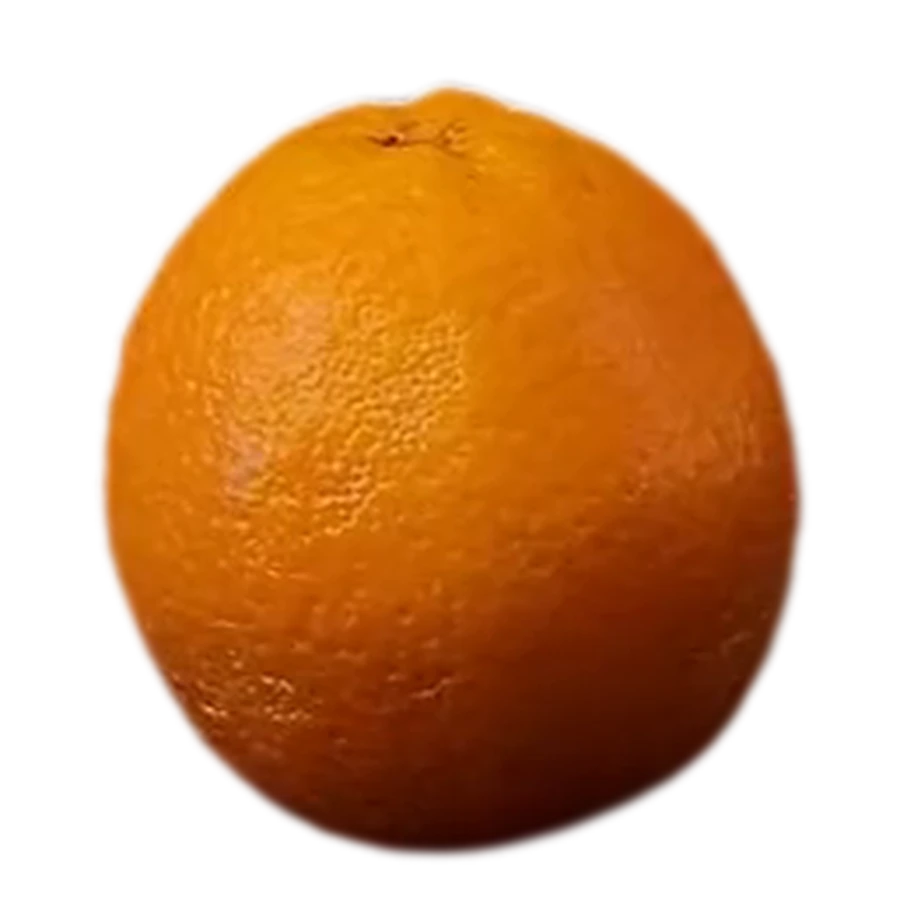
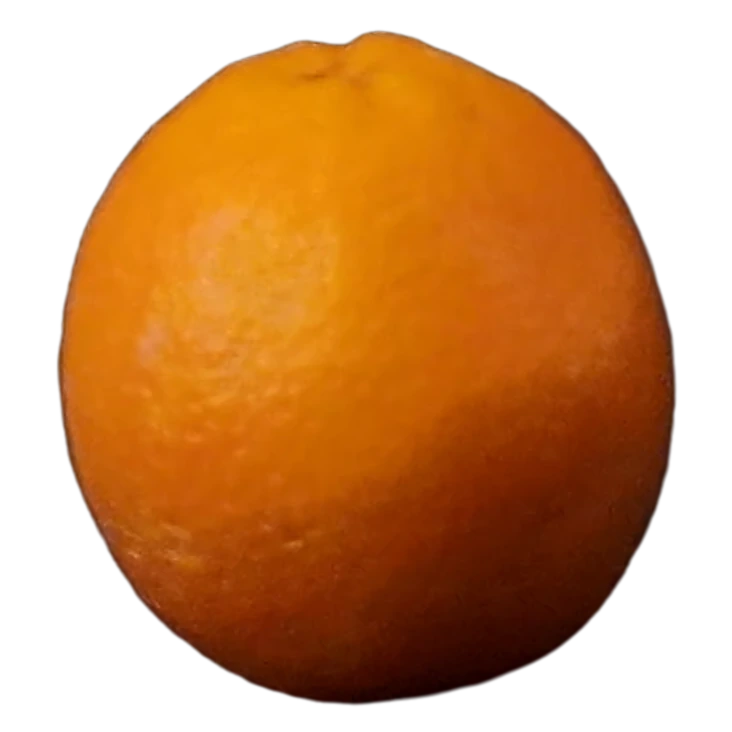
Sharper object images: cut out from Lynn's 4K studio footage and photos
Orange, Ice, Cream Foam, Rose and Cabbage Leaf get new cut-outs from the 4K
originals (two-pass mask on a tight crop). Pear, Aluminium Foil and Cleaning
Sponge get their first images. Tomato keeps the Workshop B cut-out.
tools/extract-hd.py rebuilds them from the source files.

Claude-Session: https://claude.ai/code/session_01BaGG1a1ec3XLix1jGfkRog

diff --git a/js/data/materials.js b/js/data/materials.js
@@ -8,7 +8,8 @@
 // A field that was never recorded is null and the page says so.
 //
 // IMAGES: every object has a folder assets/objects/<slug>/
-//   cutout.webp      gallery and hero image. Temporary: cut out of a Workshop B video frame.
+//   cutout.webp      gallery and hero image, cut out of Lynn's 4K studio videos and photographs
+//                    (tools/extract-hd.py). Tomato is still a temporary Workshop B cut-out.
 //                    To use a final photograph, save it over this file (square, transparent
 //                    background, about 1200 px) or point heroImage/galleryImage to the new file,
 //                    and set imageTemporary to false.
@@ -26,7 +27,7 @@ const ACTION_APPLIED = "Pinch, press and squeeze by hand, on camera (Workshop B)
 export const MATERIALS = {
   orange: {
     name: "Orange", category: "Organic", primaryAction: "Compression",
-    heroImage: O("orange") + "cutout.webp", galleryImage: O("orange") + "cutout.webp", imageTemporary: true,
+    heroImage: O("orange") + "cutout.webp", galleryImage: O("orange") + "cutout.webp", imageTemporary: false,
     physicalProfile: {
       colour: "Orange",
       shape: "Approximately spherical with a slightly rough, dimpled peel.",
@@ -49,7 +50,7 @@ export const MATERIALS = {
   },
   ice: {
     name: "Ice", category: "Frozen water", primaryAction: "Compression",
-    heroImage: O("ice") + "cutout.webp", galleryImage: O("ice") + "cutout.webp", imageTemporary: true,
+    heroImage: O("ice") + "cutout.webp", galleryImage: O("ice") + "cutout.webp", imageTemporary: false,
     physicalProfile: {
       colour: "Clear to cloudy white.",
       shape: "Irregular block with a smooth, wet surface.",
@@ -85,7 +86,7 @@ export const MATERIALS = {
   },
   "cream-foam": {
     name: "Cream Foam", category: "Food foam", primaryAction: "Compression",
-    heroImage: O("cream-foam") + "cutout.webp", galleryImage: O("cream-foam") + "cutout.webp", imageTemporary: true,
+    heroImage: O("cream-foam") + "cutout.webp", galleryImage: O("cream-foam") + "cutout.webp", imageTemporary: false,
     physicalProfile: {
       colour: "Off white",
       shape: "Soft piped mound of folds and peaks.",
@@ -103,7 +104,7 @@ export const MATERIALS = {
   },
   rose: {
     name: "Rose", category: "Organic", primaryAction: "Compression",
-    heroImage: O("rose") + "cutout.webp", galleryImage: O("rose") + "cutout.webp", imageTemporary: true,
+    heroImage: O("rose") + "cutout.webp", galleryImage: O("rose") + "cutout.webp", imageTemporary: false,
     physicalProfile: { colour: "Deep pink", shape: "Layered petals on a long stem.", lifespan: "Perishable; wilts within days of cutting.", pressure: null },
     states: states("rose", [0.3, 6, 28, 52]),
     experimentVideo: { src: V + "012-workshop-b-06.mp4", poster: V + "012-workshop-b-06.jpg", caption: "Workshop B 06 · Rose · pinch, press, squeeze", description: "A hand pinches the rose head, presses it with the palm, then lifts it by the stem and squeezes the petals. 63 seconds, no sound." },
@@ -112,7 +113,7 @@ export const MATERIALS = {
   },
   "cabbage-leaf": {
     name: "Cabbage Leaf", category: "Organic", primaryAction: "Compression",
-    heroImage: O("cabbage-leaf") + "cutout.webp", galleryImage: O("cabbage-leaf") + "cutout.webp", imageTemporary: true,
+    heroImage: O("cabbage-leaf") + "cutout.webp", galleryImage: O("cabbage-leaf") + "cutout.webp", imageTemporary: false,
     physicalProfile: { colour: "Green leaf, pale stalk", shape: "Broad smooth leaf on a thick, crisp stalk.", lifespan: "Perishable; wilts as it dries.", pressure: null },
     states: states("cabbage-leaf", [0.3, 6, 22, 45]),
     experimentVideo: { src: V + "013-workshop-b-03-leaf.mp4", poster: V + "013-workshop-b-03-leaf.jpg", caption: "Workshop B 03 (改) · Vegetable leaf · pinch, press, squeeze", description: "A hand pinches a leaf, presses it flat with the palm, then picks it up and crushes it in the hand. 55 seconds, no sound." },
@@ -121,21 +122,21 @@ export const MATERIALS = {
   },
   "aluminium-foil": {
     name: "Aluminium Foil", category: "Metal", primaryAction: "Compression", outline: "sheet",
-    heroImage: null, galleryImage: null,
+    heroImage: O("aluminium-foil") + "cutout.webp", galleryImage: O("aluminium-foil") + "cutout.webp", imageTemporary: false,
     physicalProfile: { colour: "Silver", shape: "Thin, smooth sheet, one side brighter than the other.", lifespan: "Long lasting.", pressure: "Creases and deforms under pressure, keeping its altered shape after release." },
     states: [], experimentVideo: null, bodyPerformanceVideo: null,
     observation: { action: "Open palm press (bodystorming phase 1, Sept 2026).", response: "Folds at the lightest touch and keeps every crease. Smoothing it out leaves a map of where it was pressed.", interpretation: "Identity card I02, The One Who Remembers: holds on to experiences and carries traces of past interactions." }
   },
   "cleaning-sponge": {
     name: "Cleaning Sponge", category: "Synthetic foam", primaryAction: "Compression", outline: "block",
-    heroImage: null, galleryImage: null,
+    heroImage: O("cleaning-sponge") + "cutout.webp", galleryImage: O("cleaning-sponge") + "cutout.webp", imageTemporary: false,
     physicalProfile: { colour: null, shape: "Rectangular block with an open, porous surface.", lifespan: "Long lasting; wears with use.", pressure: "Compresses under pressure and returns towards its original shape after release." },
     states: [], experimentVideo: null, bodyPerformanceVideo: null,
     observation: { action: "Open palm press (bodystorming phase 1, Sept 2026).", response: "Gives way the moment a palm presses down, pushes air out of its pores, then rises back to almost its first shape within a second or two of release.", interpretation: "Identity card I05, The Adapter: flexible and resilient, able to adjust and recover after pressure." }
   },
   pear: {
     name: "Pear", category: "Organic", primaryAction: "Compression", outline: "pear",
-    heroImage: null, galleryImage: null,
+    heroImage: O("pear") + "cutout.webp", galleryImage: O("pear") + "cutout.webp", imageTemporary: false,
     physicalProfile: { colour: null, shape: "Rounded base narrowing to the stem, thin skin.", lifespan: "Perishable · storage dependent.", pressure: "Looks unchanged right after a press; over the next hours the pressed area softens and browns." },
     states: [], experimentVideo: null, bodyPerformanceVideo: null,
     observation: { action: "Open palm press (studio experiment, 1 Oct 2026).", response: "Looks unchanged right after a press. Over the next hours the pressed area softens and turns brown.", interpretation: null }

diff --git a/js/pages/material.js b/js/pages/material.js
@@ -1,12 +1,12 @@
 // 03 Material Detail: large object + frosted information panel (Reference B), then the research record.
-import { esc, $, $$ } from "../lib/util.js?v=202611041523";
-import { href, neighbours, workshopTranslations } from "../lib/library.js?v=202611041523";
-import { publishedFor } from "../lib/contributions.js?v=202611041523";
-import { archiveStatus } from "../components/status.js?v=202611041523";
-import { objectFigure } from "../components/figure.js?v=202611041523";
-import { stateViewer, mountStateViewer } from "../components/stateViewer.js?v=202611041523";
-import { videoPlayer, mountVideo } from "../components/videoPlayer.js?v=202611041523";
-import { translationRecord } from "../components/translationRecord.js?v=202611041523";
+import { esc, $, $$ } from "../lib/util.js?v=202611042152";
+import { href, neighbours, workshopTranslations } from "../lib/library.js?v=202611042152";
+import { publishedFor } from "../lib/contributions.js?v=202611042152";
+import { archiveStatus } from "../components/status.js?v=202611042152";
+import { objectFigure } from "../components/figure.js?v=202611042152";
+import { stateViewer, mountStateViewer } from "../components/stateViewer.js?v=202611042152";
+import { videoPlayer, mountVideo } from "../components/videoPlayer.js?v=202611042152";
+import { translationRecord } from "../components/translationRecord.js?v=202611042152";
 
 const row = (k, v) => `<div class="kv"><dt>${k}</dt><dd>${v ?? '<span class="muted">Not recorded</span>'}</dd></div>`;
 const the = o => `the ${o.name}`;
@@ -17,7 +17,7 @@ export function render(main, o) {
   const p = o.physicalProfile || {}, obs = o.observation || {};
   const { prev, next } = neighbours(o.slug);
   const images = [
-    o.heroImage && { src: o.heroImage, alt: `${o.name}, object ${o.no}`, cap: o.imageTemporary ? "Temporary cut-out from a Workshop B video frame" : "Object photograph", cut: true },
+    o.heroImage && { src: o.heroImage, alt: `${o.name}, object ${o.no}`, cap: o.imageTemporary ? "Temporary cut-out from a Workshop B video frame" : "Studio photograph, cut out from 4K footage", cut: true },
     o.experimentVideo && o.experimentVideo.poster && { src: o.experimentVideo.poster, alt: `${o.name} on the experiment table`, cap: "Experiment set-up, Workshop B" }
   ].filter(Boolean);
   const tr = workshopTranslations(o.slug);

diff --git a/js/app.js b/js/app.js
@@ -1,16 +1,16 @@
 // I.A.M. The Living Material Library. Hash router and site navigation.
 // HOME > MATERIAL LIBRARY > MATERIAL DETAIL > BECOME A MATERIAL > MY COLLECTION > CONTRIBUTE TO THE LAB
-import { $, $$, reduceMotion } from "./lib/util.js?v=202611041523";
-import { bySlug, byKey, isOpen, href } from "./lib/library.js?v=202611041523";
-import * as col from "./lib/collection.js?v=202611041523";
-import * as Home from "./pages/home.js?v=202611041523";
-import * as Library from "./pages/library.js?v=202611041523";
-import * as Material from "./pages/material.js?v=202611041523";
-import * as Become from "./pages/become.js?v=202611041523";
-import * as Collection from "./pages/collection.js?v=202611041523";
-import * as Record from "./pages/record.js?v=202611041523";
-import * as Contribute from "./pages/contribute.js?v=202611041523";
-import * as About from "./pages/about.js?v=202611041523";
+import { $, $$, reduceMotion } from "./lib/util.js?v=202611042152";
+import { bySlug, byKey, isOpen, href } from "./lib/library.js?v=202611042152";
+import * as col from "./lib/collection.js?v=202611042152";
+import * as Home from "./pages/home.js?v=202611042152";
+import * as Library from "./pages/library.js?v=202611042152";
+import * as Material from "./pages/material.js?v=202611042152";
+import * as Become from "./pages/become.js?v=202611042152";
+import * as Collection from "./pages/collection.js?v=202611042152";
+import * as Record from "./pages/record.js?v=202611042152";
+import * as Contribute from "./pages/contribute.js?v=202611042152";
+import * as About from "./pages/about.js?v=202611042152";
 
 const main = $("#main");
 let cleanup = null;

diff --git a/js/data/catalogue.js b/js/data/catalogue.js
@@ -17,14 +17,14 @@ export const NUMBERING_CONFIRMED = ["001"];
 
 export const CATALOGUE = [
   { key: "004", slug: "orange",         no: "001", status: "published" },
-  { key: "003", slug: "aluminium-foil", no: "002", status: "under-observation", note: "Not yet filmed" },
-  { key: "001", slug: "cleaning-sponge",no: "003", status: "under-observation", note: "Not yet filmed" },
+  { key: "003", slug: "aluminium-foil", no: "002", status: "under-observation", note: "Photographed · record being written" },
+  { key: "001", slug: "cleaning-sponge",no: "003", status: "under-observation", note: "Photographed · record being written" },
   { key: "002", slug: "ice",            no: "004", status: "published" },
   { key: "006", slug: "tomato",         no: "005", status: "published" },
   { key: "009", slug: "cream-foam",     no: "006", status: "published" },
   { key: "012", slug: "rose",           no: "007", status: "under-observation", note: "Filmed · record being written" },
   { key: "013", slug: "cabbage-leaf",   no: "008", status: "under-observation", note: "Filmed · record being written" },
-  { key: "007", slug: "pear",           no: "009", status: "under-observation", note: "Not yet filmed" },
+  { key: "007", slug: "pear",           no: "009", status: "under-observation", note: "Filmed · record being written" },
   { key: "008", slug: "shaving-foam",   no: "010", status: "under-observation", note: "Not yet filmed" },
   { key: "014", slug: "madeleine",      no: "011", status: "under-observation", note: "Not yet filmed" }
 ];

diff --git a/js/pages/about.js b/js/pages/about.js
@@ -1,5 +1,5 @@
 // About: the method, what the translations are (and are not), and where data lives.
-import { href } from "../lib/library.js?v=202611041523";
+import { href } from "../lib/library.js?v=202611042152";
 
 export function render(main) {
   main.innerHTML = `
@@ -14,7 +14,7 @@ export function render(main) {
     <h2>Your translations and privacy</h2>
     <p>What you write in Become a Material is saved only in your own browser, in My Collection. Nothing is sent anywhere unless you choose Contribute to the Lab and tick the consent box. Contributions are reviewed before they appear, can be anonymous, and can be withdrawn from My Collection at any time.</p>
     <h2>Images</h2>
-    <p>Object images are temporary cut-outs from the research videos, to be replaced with final photographs. Physical states are real frames from the same videos.</p>
+    <p>Object images are cut out from 4K studio footage and photographs of the actual objects (Tomato is still a temporary cut-out). Physical states are real frames from the Workshop B videos.</p>
     <p class="mono small muted">A graduation project by Lynn Zhong · MA User Experience Design · London College of Communication, UAL · 2026</p>
     <p><a class="cta" href="${href.library}">Explore the Library <span aria-hidden="true">→</span></a></p>
   </article>`;

diff --git a/js/pages/become.js b/js/pages/become.js
@@ -1,10 +1,10 @@
 // 04 Become a Material: watch, then write as the material. One text box, one button.
 // After saving, sharing with the Library is one optional step on the same screen.
-import { esc, $, announce } from "../lib/util.js?v=202611041523";
-import { href } from "../lib/library.js?v=202611041523";
-import * as col from "../lib/collection.js?v=202611041523";
-import { videoPlayer } from "../components/videoPlayer.js?v=202611041523";
-import { contributionForm, mountContributionForm } from "../components/contributionForm.js?v=202611041523";
+import { esc, $, announce } from "../lib/util.js?v=202611042152";
+import { href } from "../lib/library.js?v=202611042152";
+import * as col from "../lib/collection.js?v=202611042152";
+import { videoPlayer } from "../components/videoPlayer.js?v=202611042152";
+import { contributionForm, mountContributionForm } from "../components/contributionForm.js?v=202611042152";
 
 const DRAFT = slug => `iam.draft.${slug}`;
 const readDraft = slug => { try { return sessionStorage.getItem(DRAFT(slug)) || ""; } catch { return ""; } };

diff --git a/index.html b/index.html
@@ -10,7 +10,7 @@
   <link rel="preconnect" href="https://fonts.googleapis.com">
   <link rel="preconnect" href="https://fonts.gstatic.com" crossorigin>
   <link href="https://fonts.googleapis.com/css2?family=Geist:wght@300;400;500;600&family=Geist+Mono:wght@400;500&family=Instrument+Serif:ital@0;1&display=swap" rel="stylesheet">
-  <link rel="stylesheet" href="css/styles.css?v=202611041523">
+  <link rel="stylesheet" href="css/styles.css?v=202611042152">
 </head>
 <body class="booting">
   <a class="skip" href="#main">Skip to content</a>
@@ -33,7 +33,7 @@
     <span><a href="#/about">About &amp; privacy</a> · Lynn Zhong · MA UX Design · LCC, UAL</span>
   </footer>
 
-  <script src="config.js?v=202611041523"></script>
-  <script type="module" src="js/app.js?v=202611041523"></script>
+  <script src="config.js?v=202611042152"></script>
+  <script type="module" src="js/app.js?v=202611042152"></script>
 </body>
 </html>

diff --git a/js/pages/record.js b/js/pages/record.js
@@ -1,9 +1,9 @@
 // Personal Translation Detail: one of the visitor's own records, full text first.
-import { esc, fmtDate, $, announce } from "../lib/util.js?v=202611041523";
-import { href, byKey } from "../lib/library.js?v=202611041523";
-import * as col from "../lib/collection.js?v=202611041523";
-import { withdraw } from "../lib/contributions.js?v=202611041523";
-import { submissionStatus } from "../components/status.js?v=202611041523";
+import { esc, fmtDate, $, announce } from "../lib/util.js?v=202611042152";
+import { href, byKey } from "../lib/library.js?v=202611042152";
+import * as col from "../lib/collection.js?v=202611042152";
+import { withdraw } from "../lib/contributions.js?v=202611042152";
+import { submissionStatus } from "../components/status.js?v=202611042152";
 
 export function render(main, id, { editing = false, flash = "" } = {}) {
   const t = col.get(id);

diff --git a/js/pages/collection.js b/js/pages/collection.js
@@ -1,9 +1,9 @@
 // 05 My Collection: the visitor's own translations, a private reading room (voice-led, not object-led).
-import { $ } from "../lib/util.js?v=202611041523";
-import { href } from "../lib/library.js?v=202611041523";
-import * as col from "../lib/collection.js?v=202611041523";
-import { sync } from "../lib/contributions.js?v=202611041523";
-import { recordCard } from "../components/recordCard.js?v=202611041523";
+import { $ } from "../lib/util.js?v=202611042152";
+import { href } from "../lib/library.js?v=202611042152";
+import * as col from "../lib/collection.js?v=202611042152";
+import { sync } from "../lib/contributions.js?v=202611042152";
+import { recordCard } from "../components/recordCard.js?v=202611042152";
 
 export function render(main) {
   const items = col.list();

diff --git a/js/lib/library.js b/js/lib/library.js
@@ -1,7 +1,7 @@
 // Joins the catalogue (numbers, status) with the material records (content).
-import { CATALOGUE, RESERVED, STATUS, COLLECTION_NAME } from "../data/catalogue.js?v=202611041523";
-import { MATERIALS } from "../data/materials.js?v=202611041523";
-import { TRANSLATIONS } from "../data/translations.js?v=202611041523";
+import { CATALOGUE, RESERVED, STATUS, COLLECTION_NAME } from "../data/catalogue.js?v=202611042152";
+import { MATERIALS } from "../data/materials.js?v=202611042152";
+import { TRANSLATIONS } from "../data/translations.js?v=202611042152";
 
 export const OBJECTS = CATALOGUE.map(c => ({ ...MATERIALS[c.slug], ...c, collection: COLLECTION_NAME }));
 export const RESERVED_SLOTS = RESERVED.map(no => ({ no, status: "awaiting-cataloguing", reserved: true }));

diff --git a/js/pages/contribute.js b/js/pages/contribute.js
@@ -1,8 +1,8 @@
 // 06 Contribute to the Lab: the same one-step share form, opened from a saved translation.
-import { esc, $ } from "../lib/util.js?v=202611041523";
-import { href } from "../lib/library.js?v=202611041523";
-import * as col from "../lib/collection.js?v=202611041523";
-import { contributionForm, mountContributionForm } from "../components/contributionForm.js?v=202611041523";
+import { esc, $ } from "../lib/util.js?v=202611042152";
+import { href } from "../lib/library.js?v=202611042152";
+import * as col from "../lib/collection.js?v=202611042152";
+import { contributionForm, mountContributionForm } from "../components/contributionForm.js?v=202611042152";
 
 export function render(main, id) {
   const t = col.get(id);

diff --git a/js/components/galleryItem.js b/js/components/galleryItem.js
@@ -1,8 +1,8 @@
 // One object in the Material Library gallery: isolated object, rotated number, compact label.
-import { esc } from "../lib/util.js?v=202611041523";
-import { href, isOpen } from "../lib/library.js?v=202611041523";
-import { objectFigure } from "./figure.js?v=202611041523";
-import { archiveStatus } from "./status.js?v=202611041523";
+import { esc } from "../lib/util.js?v=202611042152";
+import { href, isOpen } from "../lib/library.js?v=202611042152";
+import { objectFigure } from "./figure.js?v=202611042152";
+import { archiveStatus } from "./status.js?v=202611042152";
 
 export function galleryItem(o) {
   const open = isOpen(o);
